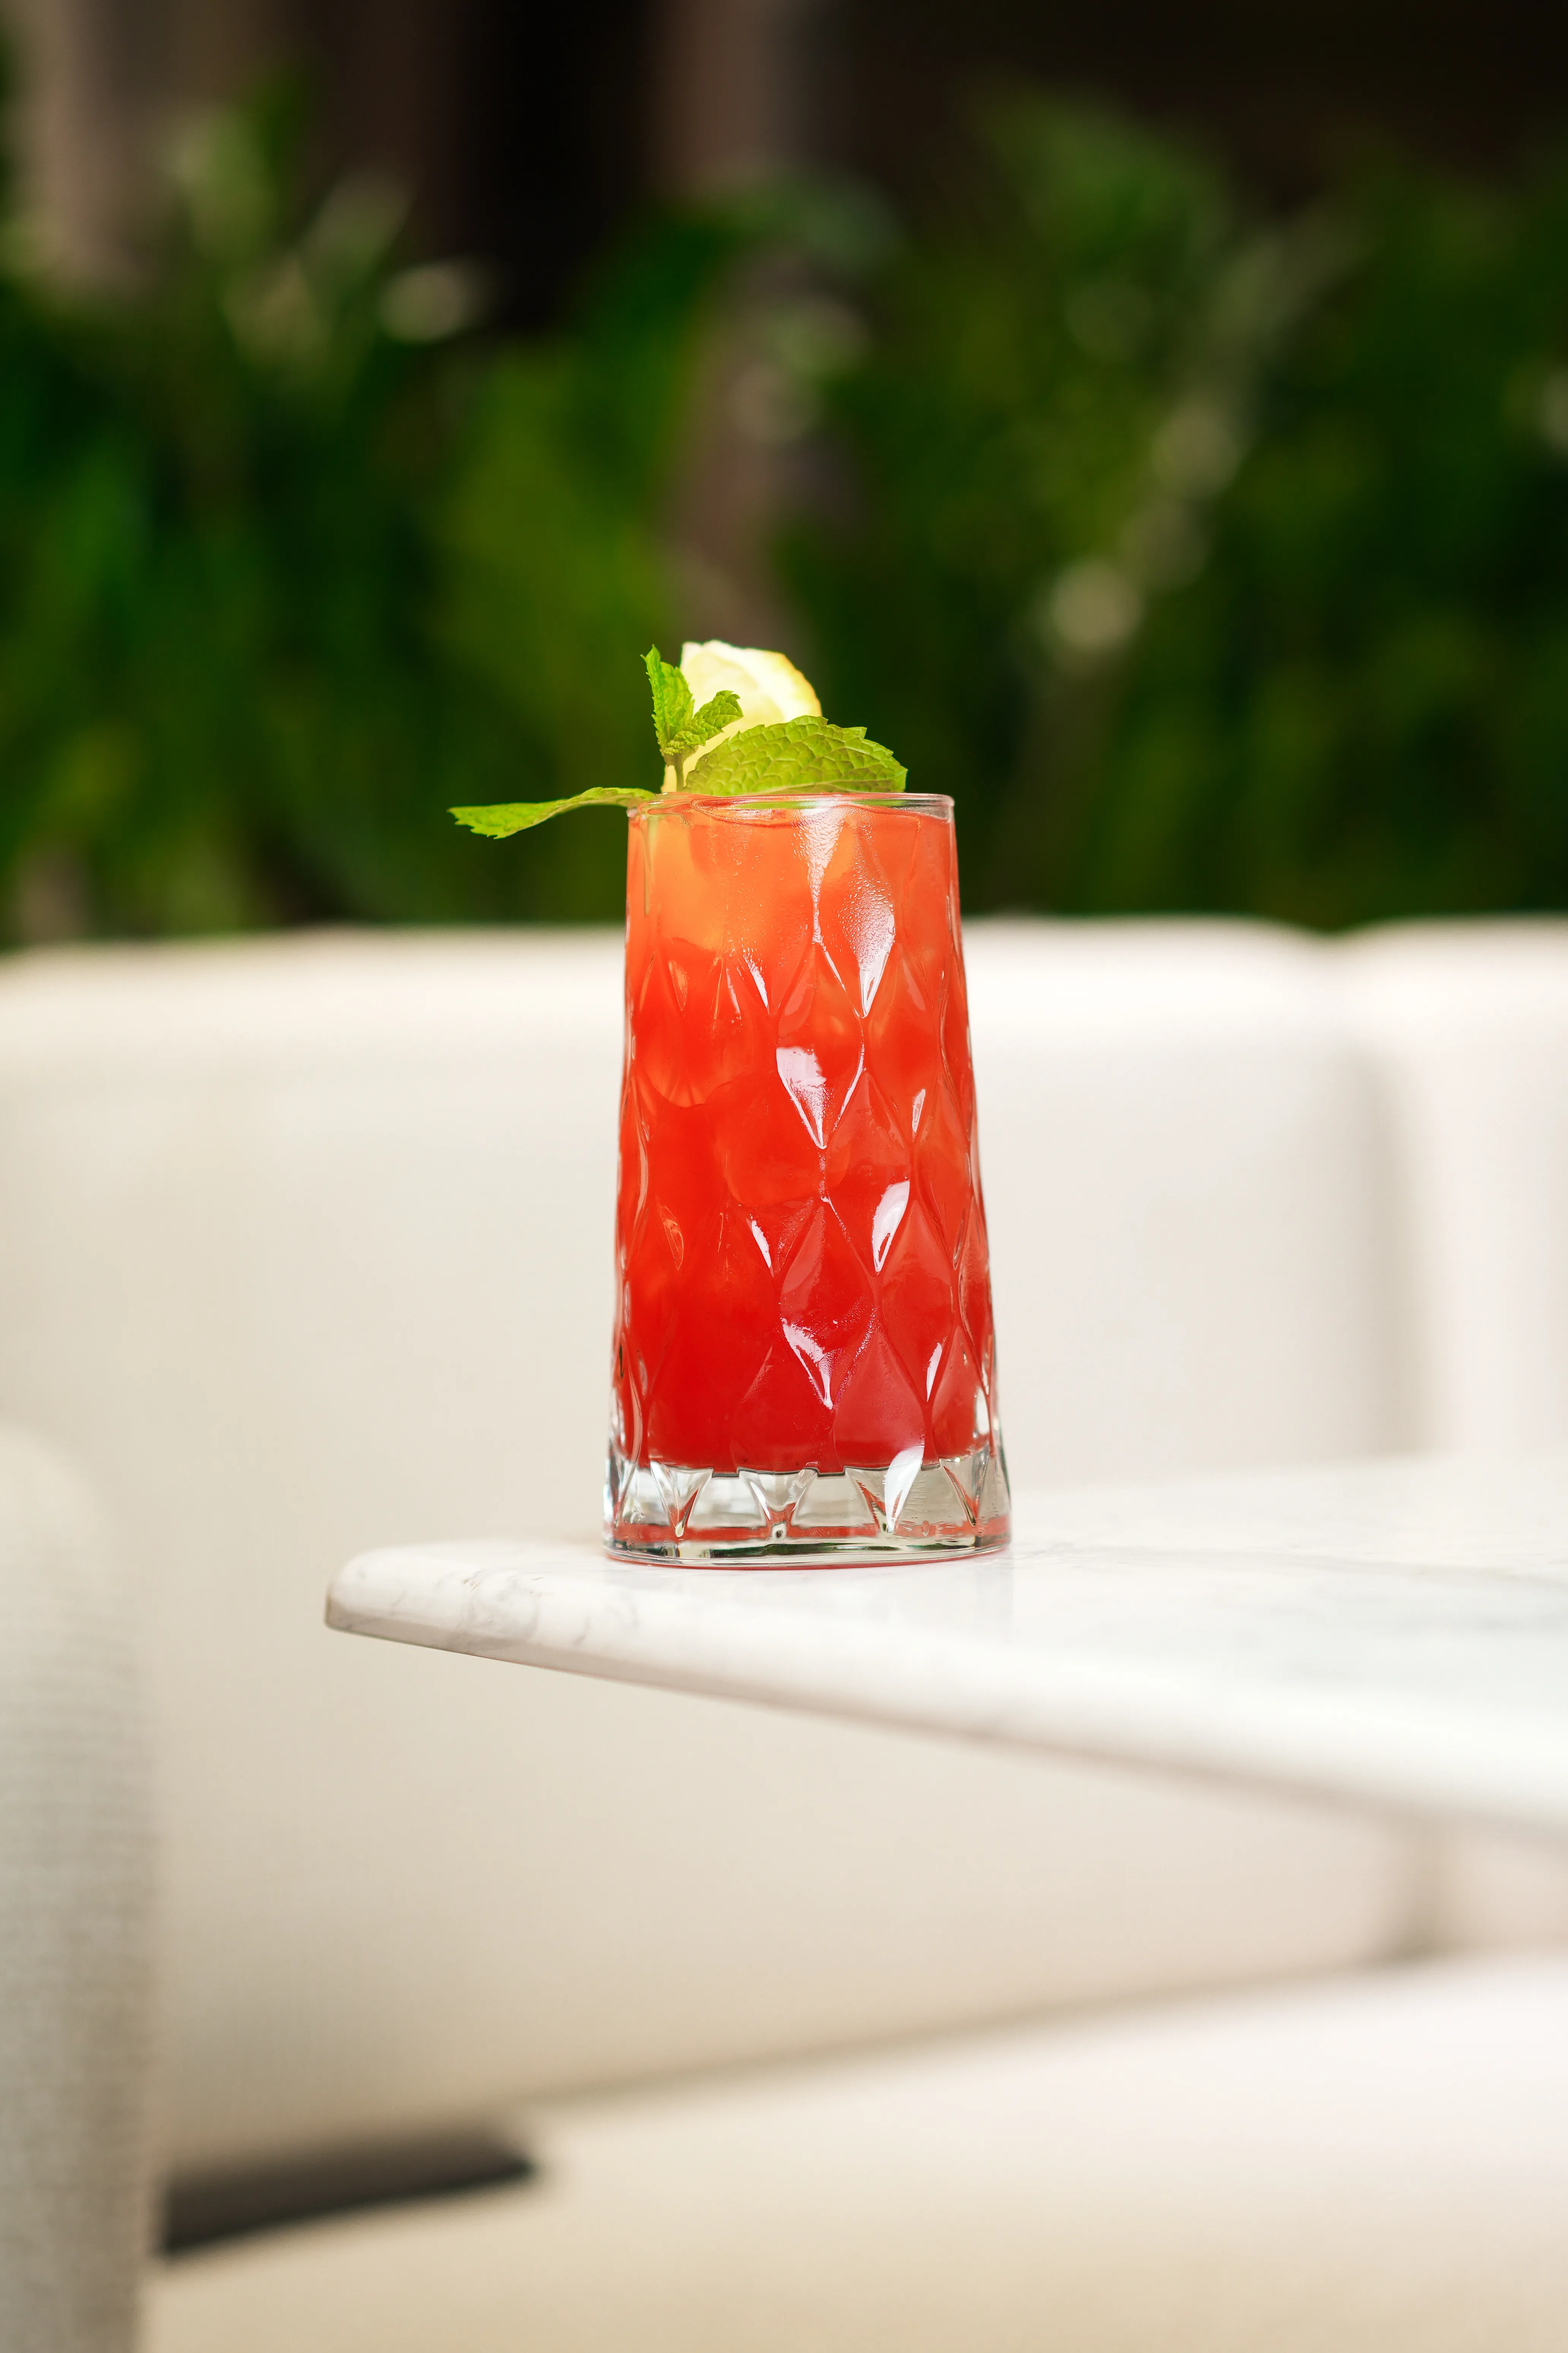
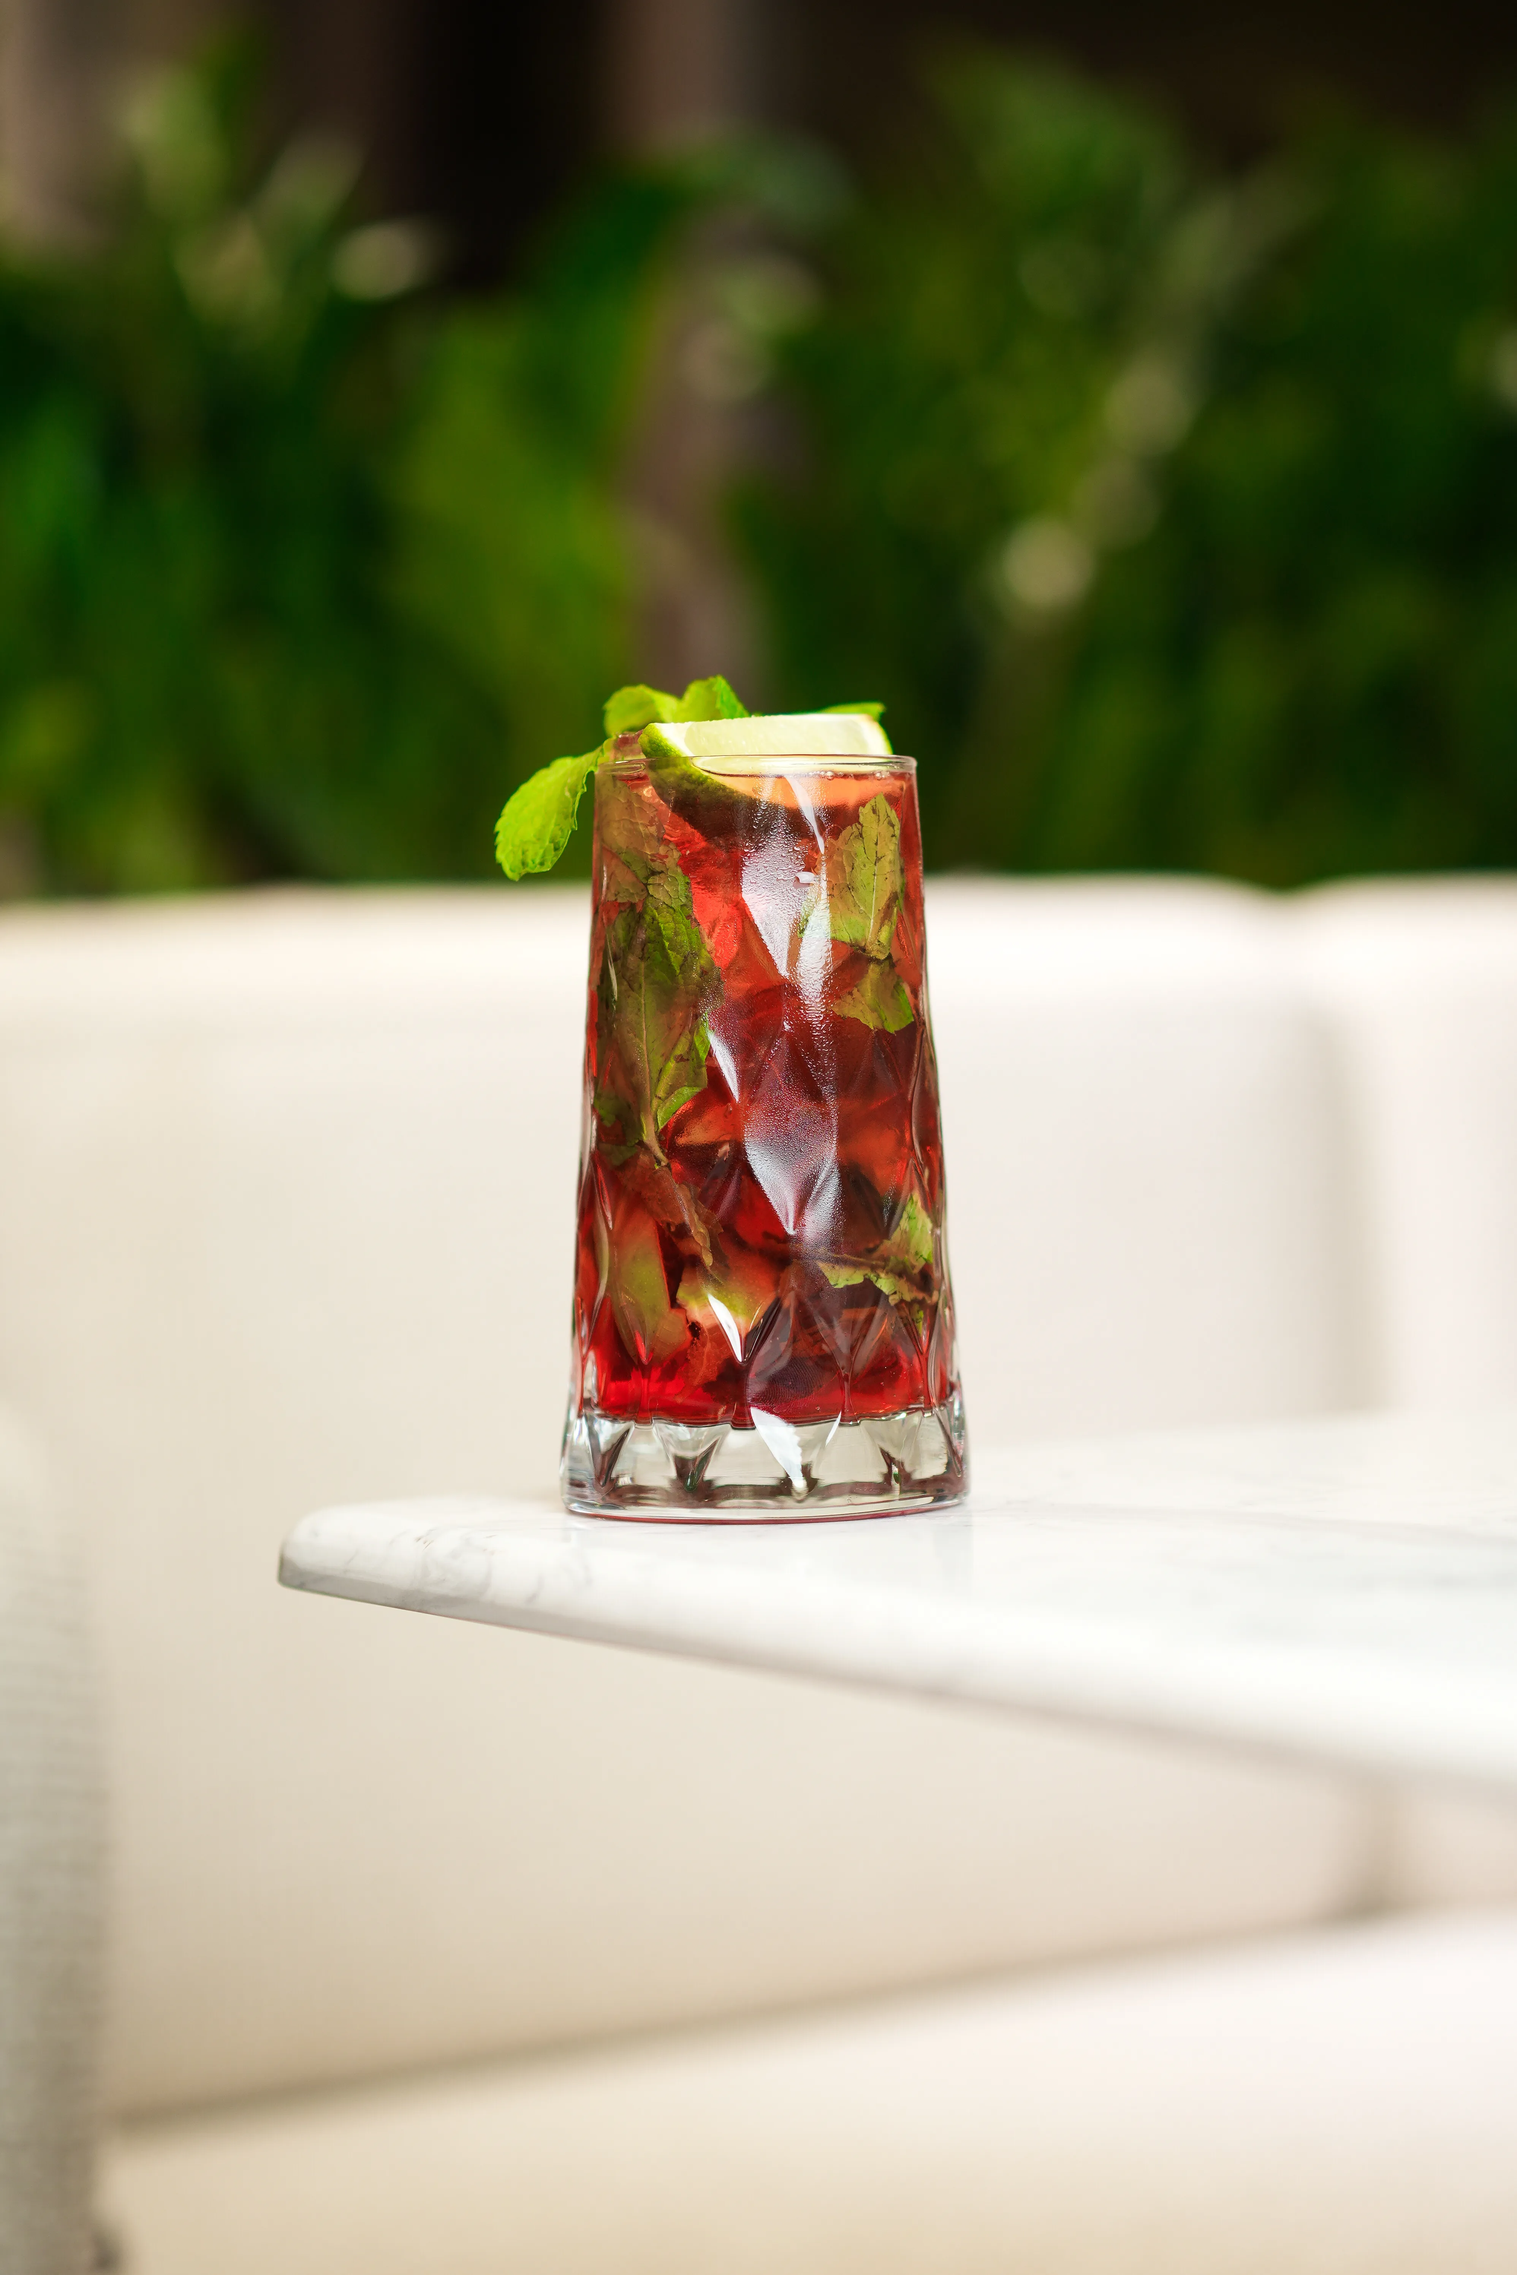
feat: add dedicated image for Kiwi Mojito (Мохито с Киви)

diff --git a/js/app.js b/js/app.js
@@ -67,6 +67,7 @@ const MATCHA_YABLOKO_KIWI = "img/matcha_yabloko_kiwi.webp";
 const MOXITO_KLUBNIKA = "img/moxito_klubnika.webp";
 const LIMONAD_MANGO_MARAKUYA = "img/limonad_mango_marakuya.webp";
 const MOXITO_KLASSIK = "img/moxito_klassik.webp";
+const MOXITO_KIWI = "img/moxito_kiwi.webp";
 
 // Предзагрузка всех изображений в память для мгновенного переключения без задержек
 [
@@ -86,7 +87,7 @@ const MOXITO_KLASSIK = "img/moxito_klassik.webp";
   ANGLIYSKIY_ZAVTRAK, BLINCHIK_S_MEDOM, BENEDIKT_LOSOS, SIRNIKI,
   GRANOLA_MANGO, GRANOLA_KLUBNIKA, DRANIKI_LOSOS, OMLET_KURITSA,
   OMLET_SIR, OMLET_GRIB, MATCHA_YABLOKO_KIWI, MOXITO_KLUBNIKA,
-  LIMONAD_MANGO_MARAKUYA, MOXITO_KLASSIK
+  LIMONAD_MANGO_MARAKUYA, MOXITO_KLASSIK, MOXITO_KIWI
 ].forEach(src => {
   const img = new Image();
   img.src = src;
@@ -289,7 +290,7 @@ const MENU = {
       weight: '',
       price: 35000,
       badge: '',
-      img: P4,
+      img: MOXITO_KIWI,
       variants: [
         { id: 'mojito_kiwi_glass', label: { ru: 'Стакан', uz: 'Stakan' }, price: 35000 },
         { id: 'mojito_kiwi_carafe', label: { ru: 'Графин', uz: 'Grafin' }, price: 70000 }
